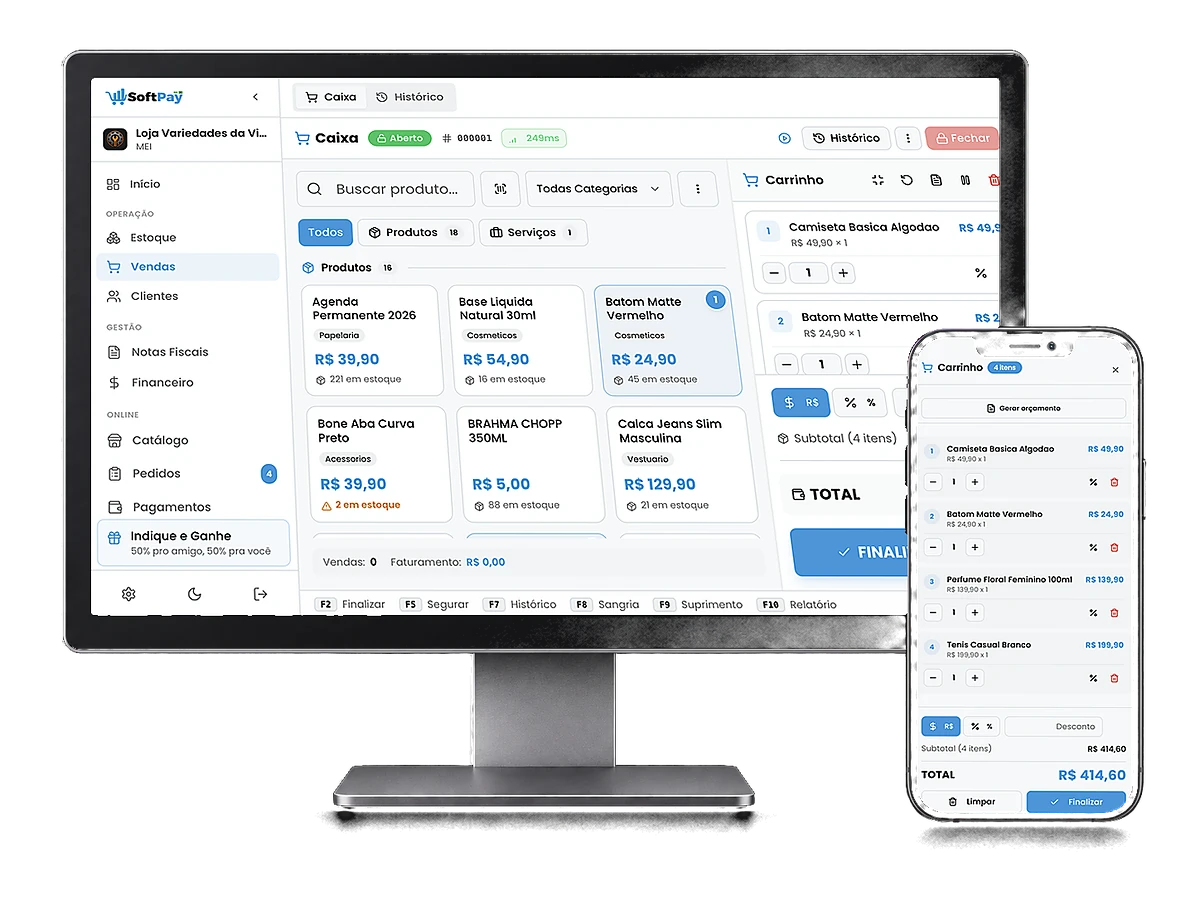
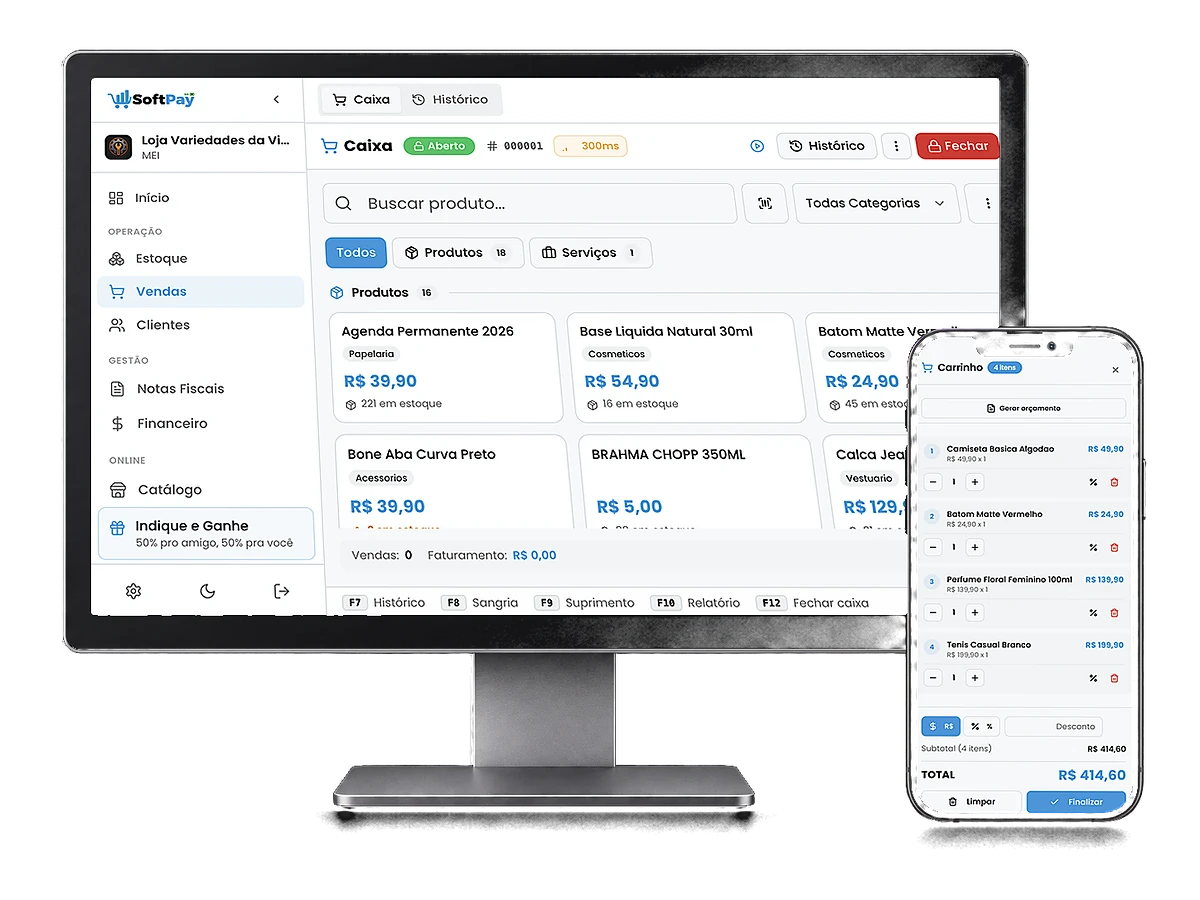
hero do celular: o balcão no monitor, o carrinho no celular
O celular da peça fica por cima do canto direito do monitor e tapava
exatamente a coluna do carrinho (começa em x=793 de 1152, medido na
página): a tela grande aparecia partida ao meio, com meia coluna de
itens escapando por trás do celular, e a mesma venda aparecia duplicada
nos dois aparelhos.

Recortar a captura cortava a última fileira de produtos na moldura. A
saída veio do próprio sistema: abaixo de certo espaço o /vendas recolhe
o carrinho num botão flutuante e a grade ocupa a tela toda — estado real
do produto, não truque de foto.

- captura nova: /vendas a 1024x606, densidade 2, carrinho recolhido,
  roláveis no topo e selo de latência verde (300ms)
- 1024x606 já vem na proporção 1,69 da tela do monitor: entra inteira,
  nada cortado pela borda
- redução até o monitor de 253px cai de 4,5x para 3,1x — nome do produto
  e preço legíveis em 390px (conferido em DPR 3)

Verificado: de guard comparar sem mudança em 12 larguras (1024=12476,
1440=11731, 1920=11911), tools/verifica.py limpo nas 77 páginas, e o
recorte da peça no render real de 390px.

Changed region(s): [[0.0617, 0.0933, 0.8325, 0.6844], [0.6167, 0.1244, 0.8325, 0.28]]

diff --git a/public/index.html b/public/index.html
@@ -228,7 +228,7 @@
                     <!-- CELULAR E TABLET: a peça renderizada, com as capturas reais
                          encaixadas nas telas por perspectiva (tools/peca-hero.py).
                          É ela que resolve a moldura que ele apontou. -->
-                    <img class="hero__peca" src="/assets/hero/aparelhos-2-1200.webp?v=796e1c364b"
+                    <img class="hero__peca" src="/assets/hero/aparelhos-2-1200.webp?v=e39684758c"
                          width="1200" height="900" fetchpriority="high" decoding="async"
                          alt="O SoftPay aberto num monitor e num celular: o PDV com o carrinho fechando em R$ 414,60" />
                 </figure>

diff --git a/tools/peca-hero-celular.py b/tools/peca-hero-celular.py
@@ -32,7 +32,7 @@ from PIL import Image, ImageFilter
 RAIZ = pathlib.Path(__file__).resolve().parent.parent
 CHROMA = RAIZ / 'assets-fonte/hero/aparelhos-2-chroma.png'
 CAP = RAIZ / 'assets-fonte/hero/capturas'
-PDV = CAP / 'pdv-1152-dpr2.png'          # 2304x1364 — PDV a 1152px (interface maior na tela pequena)
+PDV = CAP / 'balcao-1024-dpr2.png'       # 2048x1212 — o balcão a 1024px, com o carrinho recolhido pelo próprio sistema
 CARRINHO = CAP / 'carrinho-390-dpr3.png'  # 1170x2532 — carrinho no layout de celular, densidade 3
 SAIDA = RAIZ / 'public/assets/hero'
 
@@ -76,8 +76,15 @@ def main():
     magenta = (R > 150) & (B > 150) & (G < 120)
     pdv = Image.open(PDV).convert('RGB')                       # 2880x1704
 
-    # MONITOR: PDV inteiro, cortando só o rodapé até a proporção da tela
+    # MONITOR: o BALCÃO — barra lateral, busca e a grade de produtos, cortando
+    # exatamente onde começa a coluna do carrinho (x=793 de 1152, medido na
+    # página). O carrinho fica no celular, que cobre o canto direito do monitor:
+    # antes ele tapava metade da coluna do carrinho e a tela grande parecia
+    # cortada pela metade. De quebra, mostrar menos coisa aumenta a letra: a
+    # redução até o monitor de 253px cai de 4,5x para 3,1x.
     _, (x0, y0, x1, y1) = cantos(dilatar(verde)); prop = (x1 - x0 + 1) / (y1 - y0 + 1)
+    # a captura já vem na proporção da tela (1024x606 = 1,69): entra inteira,
+    # com rodapé e tudo — nada cortado pela borda do monitor
     monitor = pdv.crop((0, 0, pdv.width, min(pdv.height, round(pdv.width / prop))))
 
     # CELULAR: o carrinho no layout de CELULAR do próprio sistema (capturado a

diff --git a/assets-fonte/hero/LEIA-ME.md b/assets-fonte/hero/LEIA-ME.md
@@ -105,3 +105,28 @@ tamanho real:
 
 `de browser stop`/`navegador.close()` fecham o Chrome do agente e derrubam a
 sessão: nos roteiros de captura, **nunca fechar o navegador**.
+
+### O balcão em 1024px, com o carrinho recolhido (20/09/2026)
+
+"Essa daqui tá péssima." O 1152px resolveu a nitidez, mas não a **composição**:
+o celular fica por cima do canto direito do monitor e tapava justamente a
+coluna do carrinho (começa em x=793 de 1152, medido na página). A tela grande
+aparecia partida ao meio, com metade de uma coluna de itens escapando por trás
+do celular — e a mesma venda estava duplicada nos dois aparelhos.
+
+A saída veio do próprio sistema: abaixo de um certo espaço, o `/vendas`
+**recolhe o carrinho** num botão flutuante e a grade de produtos ocupa a tela
+toda. É um estado real do produto, não um truque de foto. A captura passou a
+ser `balcao-1024-dpr2.png` — `/vendas` a **1024x606, densidade 2** (2048x1212,
+já na proporção 1,69 da tela do monitor: entra inteira, sem corte de rodapé).
+
+O que muda na peça:
+
+- **monitor = o balcão** (menu, busca, filtros, grade de produtos, teclas de
+  atalho no rodapé) e **celular = o carrinho** daquela mesma venda. Um aparelho
+  não repete mais o outro: juntos contam a venda inteira.
+- redução até o monitor de 253px cai de 4,5x para **3,1x** — a letra do nome do
+  produto e do preço fica legível em 390px (conferido com recorte em DPR 3).
+
+Antes de fotografar, esperar o selo de latência do sistema ficar **verde**
+(< 350ms): num print, o badge laranja de 900ms lê como sistema lento.
